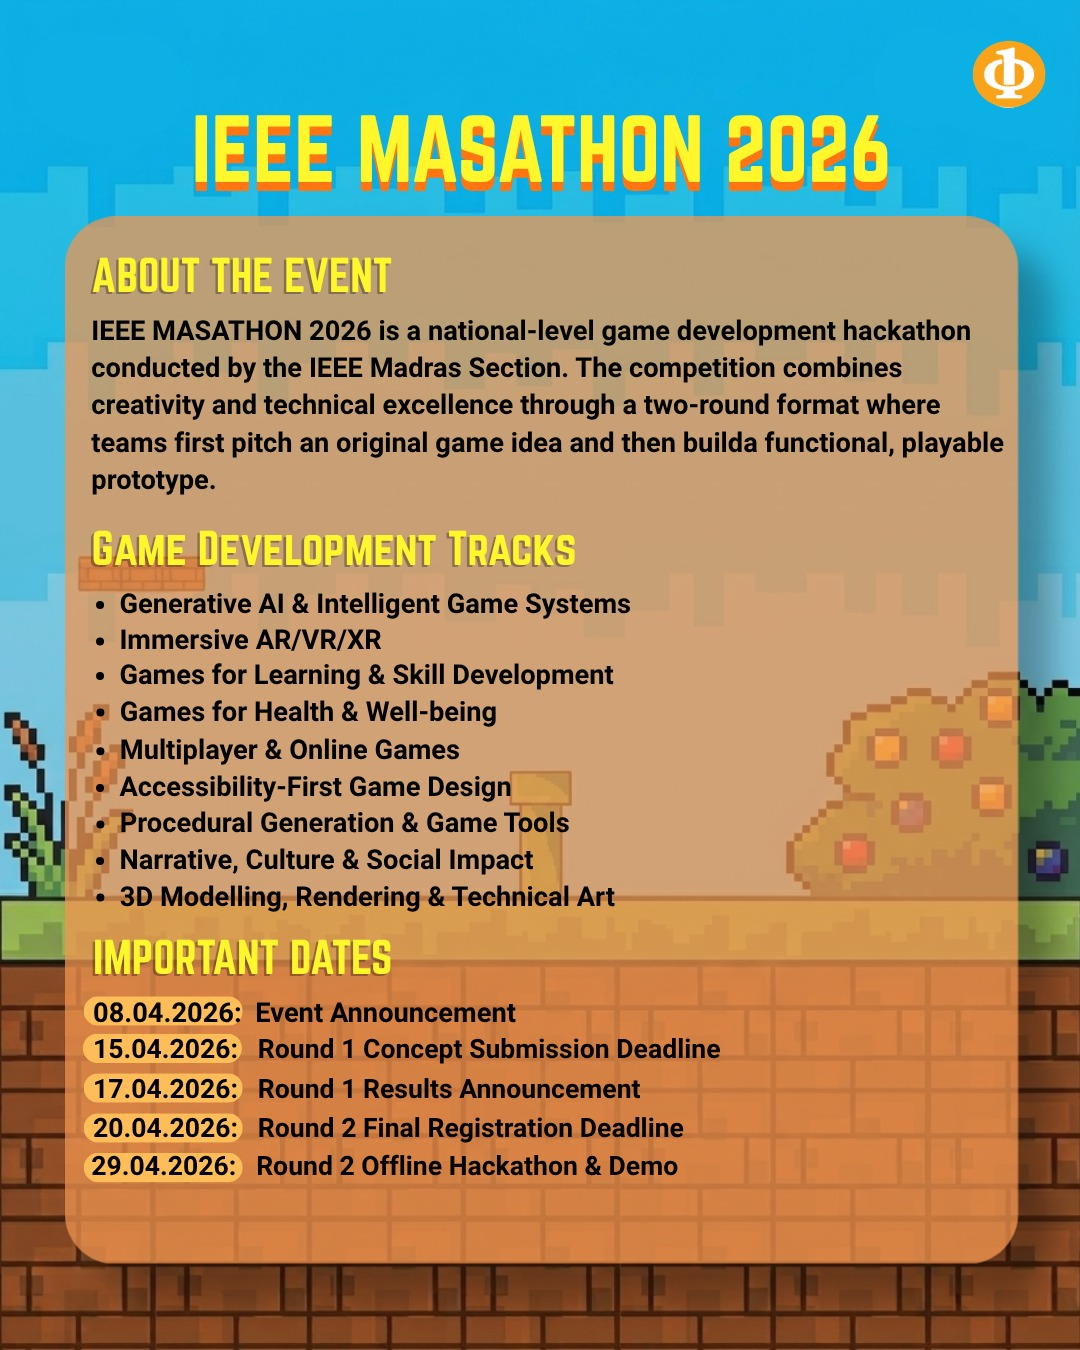
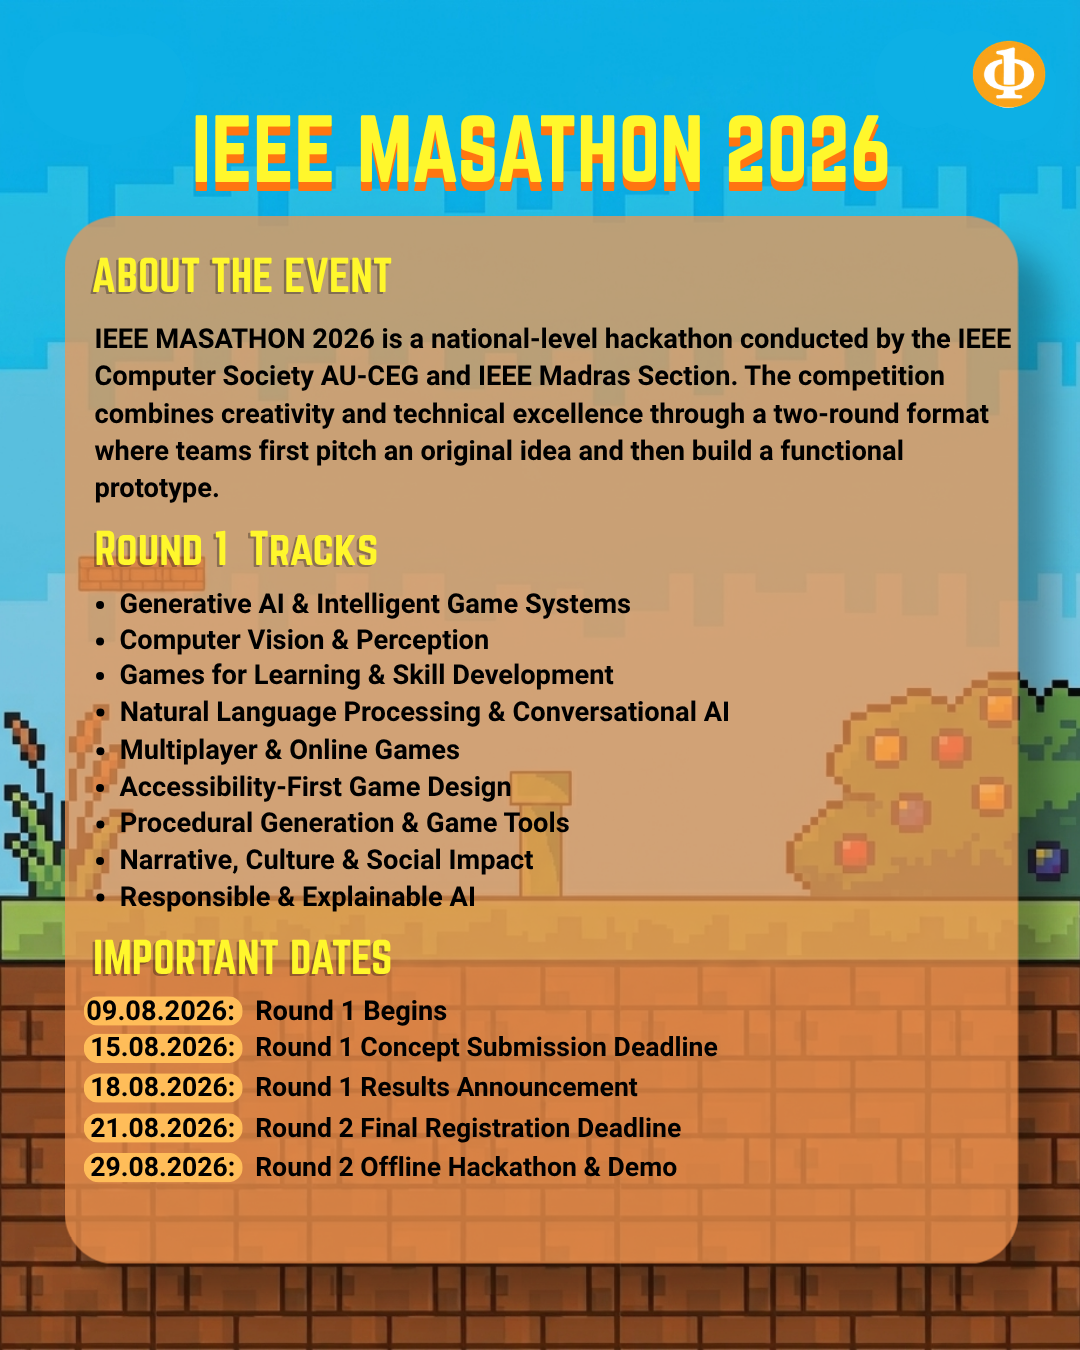
Update Masathon event details and posters for August 2026
- Update all dates from April to August 2026 (Round 1 begins 09.08, hackathon 29.08)
- Fix registration URL to Unstop link
- Update fees: IEEE ₹250, Non-IEEE ₹450 (reg fee only for Round 2)
- Update tracks: Computer Vision & Perception, NLP & Conversational AI, Responsible & Explainable AI
- Update about text to reference IEEE Computer Society AU-CEG
- Replace poster images with latest versions
- Fix minor text discrepancies (AI rules comma, tagline format)

diff --git a/website-ieee/frontend/src/pages/Masathon.jsx b/website-ieee/frontend/src/pages/Masathon.jsx
@@ -47,28 +47,28 @@ gsap.registerPlugin(ScrollTrigger);
    OFFICIAL EVENT DATA — IEEE MASATHON 2026
    ============================================================ */
 
-const REGISTER_URL = 'https://forms.gle/masathon-2026-placeholder'; // ← swap for the real form
+const REGISTER_URL = 'https://unstop.com/p/ieee-masathon-2026-imagine-build-play-anna-university-au-chennai-1734082?lb=uW58KJQb&utm_medium=Share&utm_source=ieeeceg62075&utm_campaign=Online_coding_challenge';
 
 const ABOUT =
-    'IEEE MASATHON 2026 is a national-level game development hackathon conducted by the IEEE Madras Section. The competition combines creativity and technical excellence through a two-round format where teams first pitch an original game idea and then build a functional, playable prototype.';
+    'IEEE MASATHON 2026 is a national-level hackathon conducted by the IEEE Computer Society AU-CEG and IEEE Madras Section. The competition combines creativity and technical excellence through a two-round format where teams first pitch an original idea and then build a functional prototype.';
 
 const KEY_FACTS = [
     { k: 'FORMAT', v: 'NATIONAL LEVEL', s: 'Two rounds' },
     { k: 'PRIZE POOL', v: '₹40,000', s: 'Total' },
     { k: 'TEAM SIZE', v: '2 – 4', s: 'Members' },
-    { k: 'IEEE MEMBERS', v: 'FREE', s: 'Valid ID required' },
+    { k: 'IEEE MEMBERS', v: '₹250', s: 'Valid ID required' },
 ];
 
 const TRACKS = [
     { n: 'Generative AI & Intelligent Game Systems', c: '#ff2bd1', icon: STAR },
-    { n: 'Immersive AR / VR / XR', c: '#00e5ff', icon: FLOWER },
+    { n: 'Computer Vision & Perception', c: '#00e5ff', icon: FLOWER },
     { n: 'Games for Learning & Skill Development', c: '#43b047', icon: MUSHROOM },
-    { n: 'Games for Health & Well-being', c: '#ff6b6b', icon: ONEUP },
+    { n: 'Natural Language Processing & Conversational AI', c: '#ff6b6b', icon: ONEUP },
     { n: 'Multiplayer & Online Games', c: '#7b5cff', icon: COIN },
     { n: 'Accessibility-First Game Design', c: '#fbd000', icon: QBLOCK },
     { n: 'Procedural Generation & Game Tools', c: '#4ecdc4', icon: STAR },
     { n: 'Narrative, Culture & Social Impact', c: '#ff9f45', icon: MUSHROOM },
-    { n: '3D Modelling, Rendering & Technical Art', c: '#b5e853', icon: FLOWER },
+    { n: 'Responsible & Explainable AI', c: '#b5e853', icon: FLOWER },
 ];
 
 const ROUNDS = [
@@ -79,14 +79,13 @@ const ROUNDS = [
         pipe: 140,
         what: [
             'Submit via PPT (official template provided) or Video Pitch.',
-            'Must include gameplay, story, mechanics, tech stack, development plan, and team roles.',
-            'Best concepts will be shortlisted for Round 2.',
+            'Must include the concept, core idea, key features, approach, technology/AI stack (where applicable), development plan, and team roles.',
         ],
-        judged: ['Innovation', 'Feasibility', 'Creativity', 'Presentation'],
+        judged: ['Functionality', 'Technical execution', 'Gameplay experience', 'Polish', 'Documentation'],
     },
     {
         tag: 'ROUND 2',
-        title: 'Offline Prototype Development',
+        title: 'Offline Prototype Development (8 Hours)',
         accent: '#e52521',
         pipe: 200,
         note: '8 HOURS',
@@ -99,11 +98,11 @@ const ROUNDS = [
 ];
 
 const DATES = [
-    { d: '08.04.2026', iso: '2026-04-08', label: 'Event Announcement', icon: COIN },
-    { d: '15.04.2026', iso: '2026-04-15', label: 'Round 1 Concept Submission Deadline', icon: MUSHROOM },
-    { d: '17.04.2026', iso: '2026-04-17', label: 'Round 1 Results Announcement', icon: FLOWER },
-    { d: '20.04.2026', iso: '2026-04-20', label: 'Round 2 Final Registration Deadline', icon: ONEUP },
-    { d: '29.04.2026', iso: '2026-04-29', label: 'Round 2 Offline Hackathon & Demo', icon: STAR, final: true },
+    { d: '09.08.2026', iso: '2026-08-09', label: 'Round 1 Begins', icon: COIN },
+    { d: '15.08.2026', iso: '2026-08-15', label: 'Round 1 Concept Submission Deadline', icon: MUSHROOM },
+    { d: '18.08.2026', iso: '2026-08-18', label: 'Round 1 Results Announcement', icon: FLOWER },
+    { d: '21.08.2026', iso: '2026-08-21', label: 'Round 2 Final Registration Deadline', icon: ONEUP },
+    { d: '29.08.2026', iso: '2026-08-29', label: 'Round 2 Offline Hackathon & Demo', icon: STAR, final: true },
 ];
 
 const ENTRY = [
@@ -114,18 +113,18 @@ const ENTRY = [
         c: '#00e5ff',
         icon: MUSHROOM,
     },
-    { k: 'IEEE MEMBERS', v: 'FREE', s: 'Valid IEEE Membership ID required.', c: '#43b047', icon: STAR },
-    { k: 'NON-IEEE MEMBERS', v: '₹300', s: 'Per participant.', c: '#fbd000', icon: COIN },
+    { k: 'IEEE MEMBERS', v: '₹250', s: 'Per participant (Valid IEEE Membership ID required).', c: '#43b047', icon: STAR },
+    { k: 'NON-IEEE MEMBERS', v: '₹450', s: 'Per participant.', c: '#fbd000', icon: COIN },
 ];
 
 const AI_RULES = [
     'Moderate use of AI tools permitted for coding, debugging, and productivity.',
-    "Core design, implementation, and presentation must be the team's original work, with proper attribution for third-party assets.",
+    "Core design, implementation, and presentation must be the team's original work with proper attribution for third-party assets.",
 ];
 
 const SUBMIT_CHECKLIST = [
     'Round 1 — PPT on the official template, or a video pitch.',
-    'Round 1 — gameplay, story, mechanics, tech stack, development plan, team roles.',
+    'Round 1 — concept, core idea, key features, approach, technology/AI stack, development plan, team roles.',
     'Round 2 — live demonstration of the working prototype.',
     'Round 2 — source code submission.',
     'Round 2 — final presentation.',
@@ -451,9 +450,9 @@ export default function Masathon() {
 
                         <div className="ma-bevel inline-block" style={{ background: '#e2b96b', padding: '16px 26px', maxWidth: '92vw' }}>
                             <p style={{ fontSize: 'clamp(9px, 2.1vw, 15px)', color: '#000', margin: 0, lineHeight: 1.9 }}>
-                                NATIONAL-LEVEL
+                                NATIONAL LEVEL
                                 <br />
-                                GAME DEVELOPMENT HACKATHON
+                                HACKATHON
                             </p>
                         </div>
 
@@ -492,7 +491,7 @@ export default function Masathon() {
                             </div>
                         ) : (
                             <div className="ma-border inline-block" style={{ background: '#000', padding: '14px 18px', marginBottom: 34 }}>
-                                <span style={{ fontSize: 9, color: '#fbd000' }}>HACKATHON &middot; 29.04.2026</span>
+                                <span style={{ fontSize: 9, color: '#fbd000' }}>HACKATHON &middot; 29.08.2026</span>
                             </div>
                         )}
 
@@ -546,9 +545,9 @@ export default function Masathon() {
 
                         <div className="grid sm:grid-cols-3 gap-4" style={{ marginTop: 26 }}>
                             {[
-                                { k: 'CONDUCTED BY', v: 'IEEE Madras Section', c: '#00e5ff' },
+                                { k: 'CONDUCTED BY', v: 'IEEE Computer Society AU-CEG and IEEE Madras Section', c: '#00e5ff' },
                                 { k: 'VENUE', v: 'Vivek Auditorium', c: '#ff9f45' },
-                                { k: 'TAGLINE', v: 'Imagine · Build · Play', c: '#b5e853' },
+                                { k: 'TAGLINE', v: 'IMAGINE . BUILD . PLAY', c: '#b5e853' },
                             ].map((x) => (
                                 <div key={x.k} className="ma-panel ma-panel-hover ma-reveal" style={{ ['--accent']: x.c }}>
                                     <span className="ma-kicker" style={{ ['--accent']: x.c }}>
@@ -566,7 +565,7 @@ export default function Masathon() {
                     <div className="max-w-6xl mx-auto px-4">
                         <SectionHead
                             world="WORLD 1-2"
-                            title="GAME DEVELOPMENT TRACKS"
+                            title="ROUND 1 TRACKS"
                             sub="NINE TRACKS. PICK THE ONE YOUR IDEA BELONGS TO."
                             coinSlot={coinFor('tracks')}
                         />
@@ -718,8 +717,8 @@ export default function Masathon() {
                     <div className="max-w-5xl mx-auto px-4">
                         <SectionHead
                             world="WORLD 1-5"
-                            title="ELIGIBILITY & FEES"
-                            sub="OPEN TO STUDENTS NATIONWIDE."
+                            title="ELIGIBILITY & REGISTRATION FEES"
+                            sub="REG. FEE ONLY FOR ROUND 2."
                             coinSlot={coinFor('entry')}
                         />
                         <div className="grid sm:grid-cols-3 gap-5">
@@ -846,14 +845,14 @@ export default function Masathon() {
                 {/* ══════════════ REGISTER / FLAGPOLE ══════════════ */}
                 <section id="register" className="ma-section" style={{ scrollMarginTop: 120, paddingBottom: 40 }}>
                     <div className="max-w-4xl mx-auto px-4 text-center">
-                        <SectionHead world="WORLD 1-C" title="ENTER MASATHON 2026" sub="REGISTRATION CLOSES 20.04.2026." />
+                        <SectionHead world="WORLD 1-C" title="ENTER MASATHON 2026" sub="REGISTRATION CLOSES 21.08.2026." />
 
                         <div className="ma-panel ma-reveal" style={{ ['--accent']: '#fbd000', padding: 'clamp(26px,4vw,44px)' }}>
                             <div className="grid sm:grid-cols-3 gap-4" style={{ marginBottom: 30 }}>
                                 {[
-                                    ['IEEE MEMBERS', 'FREE'],
-                                    ['NON-IEEE', '₹300 / HEAD'],
-                                    ['TEAM SIZE', '2 – 4'],
+                                    ['IEEE MEMBERS', '₹250 / PERSON'],
+                                    ['NON-IEEE', '₹450 / PERSON'],
+                                    ['TEAM SIZE', '2–4'],
                                 ].map(([k, v]) => (
                                     <div key={k} style={{ background: '#000', padding: '18px 10px', border: '4px solid #1e1e2a' }}>
                                         <div style={{ fontSize: 7, color: '#43b047', marginBottom: 14 }}>{k}</div>
@@ -874,7 +873,7 @@ export default function Masathon() {
                             </a>
 
                             <p style={{ fontSize: 7.5, color: 'var(--ma-muted)', marginTop: 24 }}>
-                                ROUND 1 CONCEPT DEADLINE &middot; 15.04.2026
+                                ROUND 1 CONCEPT DEADLINE &middot; 15.08.2026
                             </p>
                         </div>
                     </div>
@@ -945,7 +944,7 @@ export default function Masathon() {
                             <PixelSprite map={USEDBLOCK} style={{ width: 28, height: 28 }} />
                         </div>
                         <p style={{ fontSize: 8, color: '#f3d9c2', lineHeight: 2.4 }}>
-                            IEEE MASATHON 2026 &middot; IEEE MADRAS SECTION
+                            IEEE MASATHON 2026 &middot; IEEE COMPUTER SOCIETY AU-CEG &middot; IEEE MADRAS SECTION
                             <br />
                             VIVEK AUDITORIUM &middot; IMAGINE . BUILD . PLAY
                         </p>
